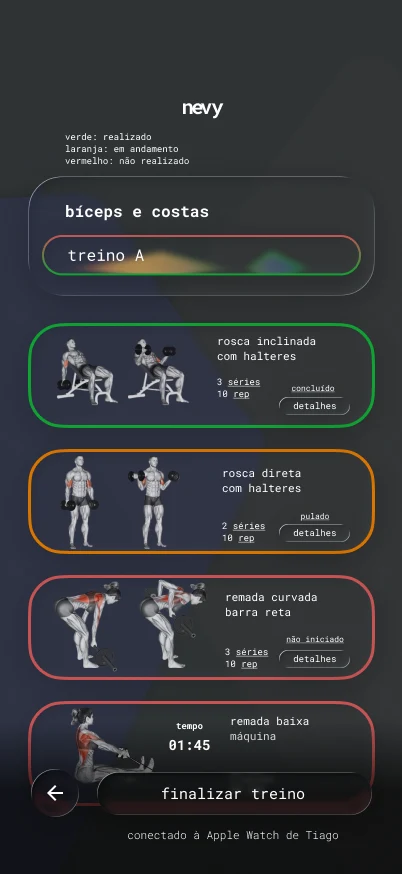
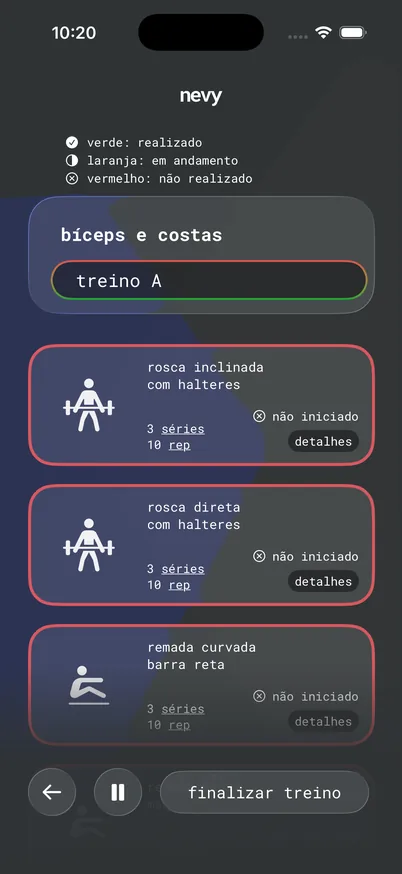
nevy: troca as telas de histórico e treino pelas do app atual e adiciona a de corrida
Claude-Session: https://claude.ai/code/session_015z2G63p8ibVhGsPnRoC111

diff --git a/nevy.html b/nevy.html
@@ -21,7 +21,7 @@
     <meta name="twitter:card" content="summary_large_image" />
     <meta name="theme-color" content="#07090e" />
     <link rel="preload" href="fonts/manrope.woff2" as="font" type="font/woff2" crossorigin />
-    <link rel="stylesheet" href="styles.css?v=34" />
+    <link rel="stylesheet" href="styles.css?v=35" />
   </head>
   <body class="case-page">
     <a class="skip" href="#conteudo" data-i18n="skip">pular para o conteúdo</a>
@@ -112,10 +112,11 @@
         </div>
       </section>
 
-      <section class="case-decision case-decision-flip wrap">
-        <div class="case-pair">
-          <figure class="phone"><div class="phone-screen"><img data-i18n-attr="alt:alt.historico" src="img/nevy/06-historico.webp" alt="histórico com calendário e atalhos para registrar corrida e treino." width="402" height="874" loading="lazy" /></div></figure>
-          <figure class="phone"><div class="phone-screen"><img data-i18n-attr="alt:alt.treino" src="img/nevy/07-treino.webp" alt="treino em andamento com exercícios marcados como concluído, pulado e não iniciado." width="402" height="874" loading="lazy" /></div></figure>
+      <section class="case-decision case-decision-flip case-decision-trio wrap">
+        <div class="case-trio">
+          <figure class="phone"><div class="phone-screen"><img data-i18n-attr="alt:alt.historico" src="img/nevy/06-historico.webp" alt="detalhe de um dia no histórico: treino D com tempo, gasto e exercícios feitos, e logo abaixo a alimentação do dia." width="402" height="874" loading="lazy" /></div></figure>
+          <figure class="phone"><div class="phone-screen"><img data-i18n-attr="alt:alt.corrida" src="img/nevy/12-corrida.webp" alt="detalhe de uma corrida de 5 km no histórico, com tempo, distância, gasto e ritmo médio." width="402" height="874" loading="lazy" /></div></figure>
+          <figure class="phone"><div class="phone-screen"><img data-i18n-attr="alt:alt.treino" src="img/nevy/07-treino.webp" alt="treino A em andamento, com a legenda de cores e os exercícios ainda não iniciados." width="402" height="874" loading="lazy" /></div></figure>
         </div>
         <div>
           <span class="case-num">04</span>
@@ -210,7 +211,7 @@ let adjusted = max(daily * profile.goal.factor, basal)</code></pre>
       <a href="https://github.com/tithr" target="_blank" rel="noreferrer">github ↗</a>
       <span class="footer-note" data-i18n="footer.privacy">sem cookies. As visitas são contadas de forma anônima.</span>
     </footer>
-    <script src="i18n.js?v=5"></script>
+    <script src="i18n.js?v=6"></script>
     <script src="lenis.min.js"></script>
     <script src="site.js?v=1"></script>
   </body>

diff --git a/styles.css b/styles.css
@@ -192,6 +192,7 @@ footer a { color: var(--ink); }
 .case-decision-trio { grid-template-columns: minmax(0, 330px) minmax(0, 1fr); }
 .case-trio { display: grid; grid-template-columns: repeat(3, 1fr); gap: 18px; }
 .case-trio figure { margin: 0; }
+.case-decision-flip.case-decision-trio { grid-template-columns: minmax(0, 330px) minmax(0, 1fr); }
 
 .case-notes { display: grid; grid-template-columns: repeat(3, 1fr); gap: 1px; margin-top: 70px; padding: 0; background: var(--line); border: 1px solid var(--line); }
 .case-notes article { padding: 30px 28px 34px; background: var(--bg); }
@@ -356,7 +357,7 @@ footer a { color: var(--ink); }
   .case-decision, .case-decision-flip { grid-template-columns: 1fr; gap: 28px; padding-top: 70px; }
   .case-decision > figure { max-width: 240px; }
   .case-decision-flip > div:last-child { order: 0; }
-  .case-decision-trio { grid-template-columns: 1fr; }
+  .case-decision-trio, .case-decision-flip.case-decision-trio { grid-template-columns: 1fr; }
   .case-trio { display: flex; gap: 14px; overflow-x: auto; scroll-snap-type: x mandatory; margin-right: -16px; padding-right: 16px; }
   .case-trio figure { flex: 0 0 62%; scroll-snap-align: start; }
   .case-notes { grid-template-columns: 1fr; margin-top: 50px; }

diff --git a/i18n.js b/i18n.js
@@ -65,8 +65,9 @@
     'res.log': 'log',
     'alt.resultado': 'result: plate identified, with macros, a list of estimated foods and the log button.',
     'alt.hoje2': 'today screen with meals, a total of 1,179 calories and macros.',
-    'alt.historico': 'history with a calendar and shortcuts to log a run and a workout.',
-    'alt.treino': 'workout in progress with exercises marked as done, skipped and not started.',
+    'alt.historico': 'day detail in the history: workout D with time, calories and exercises done, and the day\'s food below.',
+    'alt.treino': 'workout A in progress, with the color legend and the exercises not yet started.',
+    'alt.corrida': 'detail of a 5 km run in the history, with time, distance, calories and average pace.',
     'case.context.e': 'context',
     'case.context.h': 'logging what you eat is too much work.',
     'case.context.p': 'most food apps ask you to type every item, split food and activity into different products and show numbers without saying what they mean. It takes effort before it helps.',

diff --git a/primeiro-commit.html b/primeiro-commit.html
@@ -21,7 +21,7 @@
     <meta name="twitter:card" content="summary_large_image" />
     <meta name="theme-color" content="#07090e" />
     <link rel="preload" href="fonts/manrope.woff2" as="font" type="font/woff2" crossorigin />
-    <link rel="stylesheet" href="styles.css?v=34" />
+    <link rel="stylesheet" href="styles.css?v=35" />
   </head>
   <body class="case-page">
     <a class="skip" href="#conteudo" data-i18n="skip">pular para o conteúdo</a>
@@ -175,7 +175,7 @@ git push -u origin main</code><button type="button" class="copy" data-i18n="pc.c
       <a href="https://github.com/tithr" target="_blank" rel="noreferrer">github ↗</a>
       <span class="footer-note" data-i18n="footer.privacy">sem cookies. As visitas são contadas de forma anônima.</span>
     </footer>
-    <script src="i18n.js?v=5"></script>
+    <script src="i18n.js?v=6"></script>
     <script src="lenis.min.js"></script>
     <script src="site.js?v=1"></script>
     <script>

diff --git a/404.html b/404.html
@@ -8,7 +8,7 @@
     <meta name="theme-color" content="#07090e" />
     <link rel="icon" type="image/svg+xml" href="/portfolio/favicon.svg" />
     <style>@font-face { font-family: Manrope; font-weight: 200 800; font-display: swap; src: url(/portfolio/fonts/manrope.woff2) format("woff2"); }</style>
-    <link rel="stylesheet" href="/portfolio/styles.css?v=34" />
+    <link rel="stylesheet" href="/portfolio/styles.css?v=35" />
   </head>
   <body class="case-page">
     <a class="skip" href="#conteudo" data-i18n="skip">pular para o conteúdo</a>
@@ -36,6 +36,6 @@
       <span data-i18n="footer.made">feito em minúsculas</span>
       <a href="https://github.com/tithr" target="_blank" rel="noreferrer">github ↗</a>
     </footer>
-    <script src="/portfolio/i18n.js?v=5"></script>
+    <script src="/portfolio/i18n.js?v=6"></script>
   </body>
 </html>

diff --git a/index.html b/index.html
@@ -21,7 +21,7 @@
     <meta name="theme-color" content="#07090e" />
     <link rel="icon" type="image/svg+xml" href="favicon.svg" />
     <link rel="preload" href="fonts/manrope.woff2" as="font" type="font/woff2" crossorigin />
-    <link rel="stylesheet" href="styles.css?v=34" />
+    <link rel="stylesheet" href="styles.css?v=35" />
     <script type="application/ld+json">
       {
         "@context": "https://schema.org",
@@ -115,7 +115,7 @@
       <a href="https://github.com/tithr" target="_blank" rel="noreferrer">github ↗</a>
       <span class="footer-note" data-i18n="footer.privacy">sem cookies. As visitas são contadas de forma anônima.</span>
     </footer>
-    <script src="i18n.js?v=5"></script>
+    <script src="i18n.js?v=6"></script>
     <script src="lenis.min.js"></script>
     <script src="site.js?v=1"></script>
   </body>
